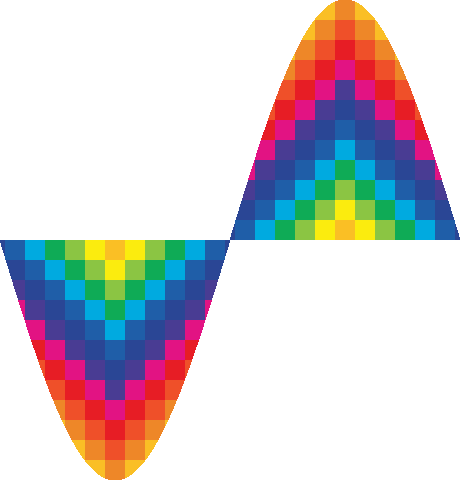
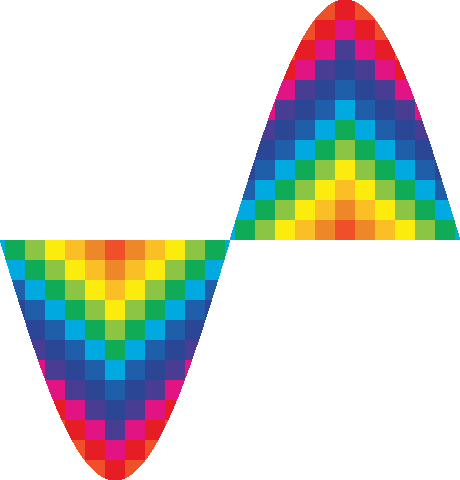
update

diff --git a/StateEvaluation/View/MainWindow.xaml b/StateEvaluation/View/MainWindow.xaml
@@ -699,6 +699,8 @@
                             </DataTemplate>
                         </DataGridTemplateColumn.CellTemplate>
                     </DataGridTemplateColumn>
+
+                    <DataGridTemplateColumn ClipboardContentBinding="{x:Null}"/>
                     <!-- BioColor I (ThreeColor) -->
                     <DataGridTemplateColumn Header="BioColor I" ClipboardContentBinding="{x:Null}" MinWidth="280"
                                                  Visibility="{Binding Path=IsChecked, Source={x:Reference BioColorIThree}, Converter={StaticResource BooleanToVisibilityConverter}}">
@@ -719,6 +721,7 @@
                             </DataTemplate>
                         </DataGridTemplateColumn.CellTemplate>
                     </DataGridTemplateColumn>
+
                     <!-- BioColor I (TwelveColor) -->
                     <DataGridTemplateColumn Header="BioColor I" ClipboardContentBinding="{x:Null}" MinWidth="280"
                                              Visibility="{Binding Path=IsChecked, Source={x:Reference BioColorITwelve}, Converter={StaticResource BooleanToVisibilityConverter}}">
@@ -752,6 +755,7 @@
                     </DataGridTextColumn>
                     <!-- BioColor I END -->
 
+                    <DataGridTemplateColumn ClipboardContentBinding="{x:Null}"/>
                     <!-- BioColor II START -->
                     <!-- BioColor II (Three) -->
                     <DataGridTemplateColumn  ClipboardContentBinding="{x:Null}"
@@ -773,6 +777,7 @@
                             </DataTemplate>
                         </DataGridTemplateColumn.CellTemplate>
                     </DataGridTemplateColumn>
+                   
                     <!-- BioColor II (ThreePictures) -->
                     <DataGridTemplateColumn  ClipboardContentBinding="{x:Null}"
                                                  Visibility="{Binding Path=IsChecked, Source={x:Reference BioColorIIPictures}, Converter={StaticResource BooleanToVisibilityConverter}}">
@@ -793,6 +798,8 @@
                             </DataTemplate>
                         </DataGridTemplateColumn.CellTemplate>
                     </DataGridTemplateColumn>
+                    
+                    <DataGridTemplateColumn ClipboardContentBinding="{x:Null}"/>
                     <!-- BioColor II (TwelveColor) -->
                     <DataGridTemplateColumn Header="BioColor II" ClipboardContentBinding="{x:Null}" MinWidth="280"
                                                  Visibility="{Binding Path=IsChecked, Source={x:Reference BioColorIITwelve}, Converter={StaticResource BooleanToVisibilityConverter}}">

diff --git a/StateEvaluation/BioColor/Main.cs b/StateEvaluation/BioColor/Main.cs
@@ -69,41 +69,67 @@ namespace StateEvaluation.BioColor
             {
                 DateTime dt = Convert.ToDateTime(_birthDate.Text);
                 DateTime nw = Convert.ToDateTime(_nowDate.Text);
-                if(dt > nw)
+                if (dt > nw)
                 {
                     MessageBox.Show("Birthday greater than date!");
                     return;
                 }
                 int delta = (int)((nw.Subtract(dt)).TotalDays);
 
-                int width = 1000 + Mid;
-
-                _myGrid.Children.Clear();
-                Function.GetCanvasImage(System.IO.Directory.GetCurrentDirectory() + "/../../BioColor/template/" + _pathRed, IntRed, delta, _myGrid);
-                Function.GetCanvasImage(System.IO.Directory.GetCurrentDirectory() + "/../../BioColor/template/" + _pathGreen, IntGreen, delta, _myGrid);
-                Function.GetCanvasImage(System.IO.Directory.GetCurrentDirectory() + "/../../BioColor/template/" + _pathBlue, IntBlue, delta, _myGrid);
-
-                // Bitmap r = new Bitmap(System.IO.Directory.GetCurrentDirectory() + "/../../BioColor/template/" + _pathRed);
-                // Bitmap g = new Bitmap(System.IO.Directory.GetCurrentDirectory() + "/../../BioColor/template/" + _pathGreen);
-                // Bitmap b = new Bitmap(System.IO.Directory.GetCurrentDirectory() + "/../../BioColor/template/" + _pathBlue);
-                 Bitmap w = new Bitmap(width, Height);
-
+                int width = (int)(SystemParameters.PrimaryScreenWidth) + Mid;
                 Bitmap r;
                 Bitmap g;
                 Bitmap b;
-                using (var fs = new System.IO.FileStream(System.IO.Directory.GetCurrentDirectory() + "/../../BioColor/template/" + _pathRed,   System.IO.FileMode.Open))
+                Bitmap w;
+                    _myGrid.Children.Clear();
+                    Function.GetCanvasImage(System.IO.Directory.GetCurrentDirectory() + "/../../BioColor/template/" + _pathRed, IntRed, delta, _myGrid);
+                    Function.GetCanvasImage(System.IO.Directory.GetCurrentDirectory() + "/../../BioColor/template/" + _pathGreen, IntGreen, delta, _myGrid);
+                    Function.GetCanvasImage(System.IO.Directory.GetCurrentDirectory() + "/../../BioColor/template/" + _pathBlue, IntBlue, delta, _myGrid);
+                try
                 {
-                    r = (Bitmap)new Bitmap(fs).Clone();
-                }
-                using (var fs = new System.IO.FileStream(System.IO.Directory.GetCurrentDirectory() + "/../../BioColor/template/" + _pathGreen, System.IO.FileMode.Open))
-                {
-                    g = (Bitmap)new Bitmap(fs).Clone();
-                }
-                using (var fs = new System.IO.FileStream(System.IO.Directory.GetCurrentDirectory() + "/../../BioColor/template/" + _pathBlue,  System.IO.FileMode.Open))
-                {
-                    b = (Bitmap)new Bitmap(fs).Clone();
-                }
+                    /*
+                    r = new Bitmap(System.IO.Directory.GetCurrentDirectory() + "/../../BioColor/template/" + _pathRed);
+                    g = new Bitmap(System.IO.Directory.GetCurrentDirectory() + "/../../BioColor/template/" + _pathGreen);
+                    b = new Bitmap(System.IO.Directory.GetCurrentDirectory() + "/../../BioColor/template/" + _pathBlue);
+                    */
 
+                    using (var fs = new System.IO.FileStream(System.IO.Directory.GetCurrentDirectory() + "/../../BioColor/template/" + _pathRed, System.IO.FileMode.Open))
+                    {
+                        r = (Bitmap)new Bitmap(fs).Clone();
+                    }
+                    using (var fs = new System.IO.FileStream(System.IO.Directory.GetCurrentDirectory() + "/../../BioColor/template/" + _pathGreen, System.IO.FileMode.Open))
+                    {
+                        g = (Bitmap)new Bitmap(fs).Clone();
+                    }
+                    using (var fs = new System.IO.FileStream(System.IO.Directory.GetCurrentDirectory() + "/../../BioColor/template/" + _pathBlue, System.IO.FileMode.Open))
+                    {
+                        b = (Bitmap)new Bitmap(fs).Clone();
+                    }
+
+                }
+                catch (System.ArgumentException)
+                {
+                    MessageBox.Show(System.IO.Directory.GetCurrentDirectory() + "/../../BioColor/template/" + _pathRed);
+                    return;
+                }
+                w = new Bitmap(width, Height);
+                
+                /*    Bitmap r;
+                    Bitmap g;
+                    Bitmap b;
+                    using (var fs = new System.IO.FileStream(System.IO.Directory.GetCurrentDirectory() + "/../../BioColor/template/" + _pathRed,   System.IO.FileMode.Open))
+                    {
+                        r = (Bitmap)new Bitmap(fs).Clone();
+                    }
+                    using (var fs = new System.IO.FileStream(System.IO.Directory.GetCurrentDirectory() + "/../../BioColor/template/" + _pathGreen, System.IO.FileMode.Open))
+                    {
+                        g = (Bitmap)new Bitmap(fs).Clone();
+                    }
+                    using (var fs = new System.IO.FileStream(System.IO.Directory.GetCurrentDirectory() + "/../../BioColor/template/" + _pathBlue,  System.IO.FileMode.Open))
+                    {
+                        b = (Bitmap)new Bitmap(fs).Clone();
+                    }
+                    */
                 for (int x = Zero; x < width; ++x)
                 {
                     for (int y = Height / 2 - 1; Zero < y; --y)
@@ -120,7 +146,7 @@ namespace StateEvaluation.BioColor
                         w.SetPixel(x, y, Function.ColorMix(rColor, gColor, bColor));
 
                     }
-                    for (int y = Height / 2 ; y < Height; ++y)
+                    for (int y = Height / 2; y < Height; ++y)
                     {
                         int xPixel = (x + delta * Square - Mid);
                         System.Drawing.Color rColor = r.GetPixel((xPixel + r.Width) % r.Width, y);
@@ -135,7 +161,6 @@ namespace StateEvaluation.BioColor
 
                     }
                 }
-
                 MemoryStream memoryStream = new MemoryStream();
                 w.Save(memoryStream, System.Drawing.Imaging.ImageFormat.Png);
                 BitmapImage theImage = new BitmapImage();
@@ -158,6 +183,7 @@ namespace StateEvaluation.BioColor
 
                 _myGrid.Children.Add(myCanvas);
                 Function.DrawClear(_myGrid);
+
             }
             catch (FormatException)
             {
@@ -167,9 +193,18 @@ namespace StateEvaluation.BioColor
         }
         public static void Menu()
         {
+            Colors c = new Colors();
+            c.ShowDialog();
+            c.Save();
+
+            ImageGenerator.Generate(23);
+            ImageGenerator.Generate(28);
+            ImageGenerator.Generate(33);
+            /*
             SettingsEdit s = new SettingsEdit();
             s.ShowDialog();
             s.Get();
+            */
             Restore();
         }
         public static void Generate()
@@ -177,7 +212,6 @@ namespace StateEvaluation.BioColor
             ImageGenerator.Generate(RangeRed);
             ImageGenerator.Generate(RangeGreen);
             ImageGenerator.Generate(RangeBlue);
-            MessageBox.Show("Generated!");
             // Application.Current.Shutdown(); 
             // myGrid.Children.Add();
         }

diff --git a/StateEvaluation/BioColor/Function.cs b/StateEvaluation/BioColor/Function.cs
@@ -1,4 +1,5 @@
 using System;
+using System.IO;
 using System.Drawing;
 using System.Windows;
 using System.Windows.Controls;
@@ -15,8 +16,8 @@ namespace StateEvaluation.BioColor
                step = Settings.Default.step,
                range = 2;
         static double alpha = Settings.Default.alpha,
-               screen_W = SystemParameters.PrimaryScreenWidth,
-               screen_H = SystemParameters.PrimaryScreenHeight;
+               screen_W = 1920,
+               screen_H = 1080;
         internal static Color ColorMix(Color c1, Color c2, Color c3)
         {
             const int DIVIDER_3 = 4;
@@ -86,15 +87,15 @@ namespace StateEvaluation.BioColor
             try
             {
                 BitmapImage theImage = new BitmapImage();
-
+                
                 theImage.BeginInit();
                 theImage.CacheOption = BitmapCacheOption.OnLoad;
-                theImage.UriSource = new Uri(a, UriKind.Relative);
+                theImage.UriSource = new Uri(a, UriKind.Absolute);
                 theImage.EndInit();
-
+                
                 System.Windows.Media.ImageBrush myImageBrush = new System.Windows.Media.ImageBrush(theImage);
 
-                for (int i = -range; i <= range; ++i)
+                for (int i = -range; i <= range * 3; ++i)
                 {
                     myGrid.Children.Add( new Canvas
                     {
@@ -107,11 +108,9 @@ namespace StateEvaluation.BioColor
                     });
                 }
             }
-
             catch (System.IO.FileNotFoundException)
             {
                 Main.Generate();
-                GetCanvasImage(a, x, Delta, myGrid);
             }
             finally
             {

diff --git a/StateEvaluation/BioColor/Settings.Designer.cs b/StateEvaluation/BioColor/Settings.Designer.cs
@@ -25,7 +25,7 @@ namespace StateEvaluation.BioColor {
         
         [global::System.Configuration.UserScopedSettingAttribute()]
         [global::System.Diagnostics.DebuggerNonUserCodeAttribute()]
-        [global::System.Configuration.DefaultSettingValueAttribute("Image-23.png")]
+        [global::System.Configuration.DefaultSettingValueAttribute("Image_23.png")]
         public string Path_Red {
             get {
                 return ((string)(this["Path_Red"]));
@@ -271,7 +271,7 @@ namespace StateEvaluation.BioColor {
         
         [global::System.Configuration.UserScopedSettingAttribute()]
         [global::System.Diagnostics.DebuggerNonUserCodeAttribute()]
-        [global::System.Configuration.DefaultSettingValueAttribute("Image-28.png")]
+        [global::System.Configuration.DefaultSettingValueAttribute("Image_28.png")]
         public string Path_Green {
             get {
                 return ((string)(this["Path_Green"]));
@@ -283,7 +283,7 @@ namespace StateEvaluation.BioColor {
         
         [global::System.Configuration.UserScopedSettingAttribute()]
         [global::System.Diagnostics.DebuggerNonUserCodeAttribute()]
-        [global::System.Configuration.DefaultSettingValueAttribute("Image-33.png")]
+        [global::System.Configuration.DefaultSettingValueAttribute("Image_33.png")]
         public string Path_Blue {
             get {
                 return ((string)(this["Path_Blue"]));

diff --git a/StateEvaluation/BioColor/ImageGenerator.cs b/StateEvaluation/BioColor/ImageGenerator.cs
@@ -84,7 +84,7 @@ new String[] {
         {
             RestoreColors();
             Bitmap image = new Bitmap(width * SquareSize, 24 * SquareSize);
-            _graphics = Graphics.FromImage(image);
+			_graphics = Graphics.FromImage(image);
 
 
             Point topPoint = new Point((int)((width / 4.0 * 3 - 0.5) * SquareSize), 0);
@@ -93,9 +93,9 @@ new String[] {
 
             switch (width)
             {
-                case 23: startIndex = 8; break;
-                case 28: startIndex = 4; break;
-                case 33: startIndex = 0; break;
+                case 23: startIndex = 8 +2 ; break;
+                case 28: startIndex = 4 +2 ; break;
+                case 33: startIndex = 0 +2 ; break;
 
             }
 
